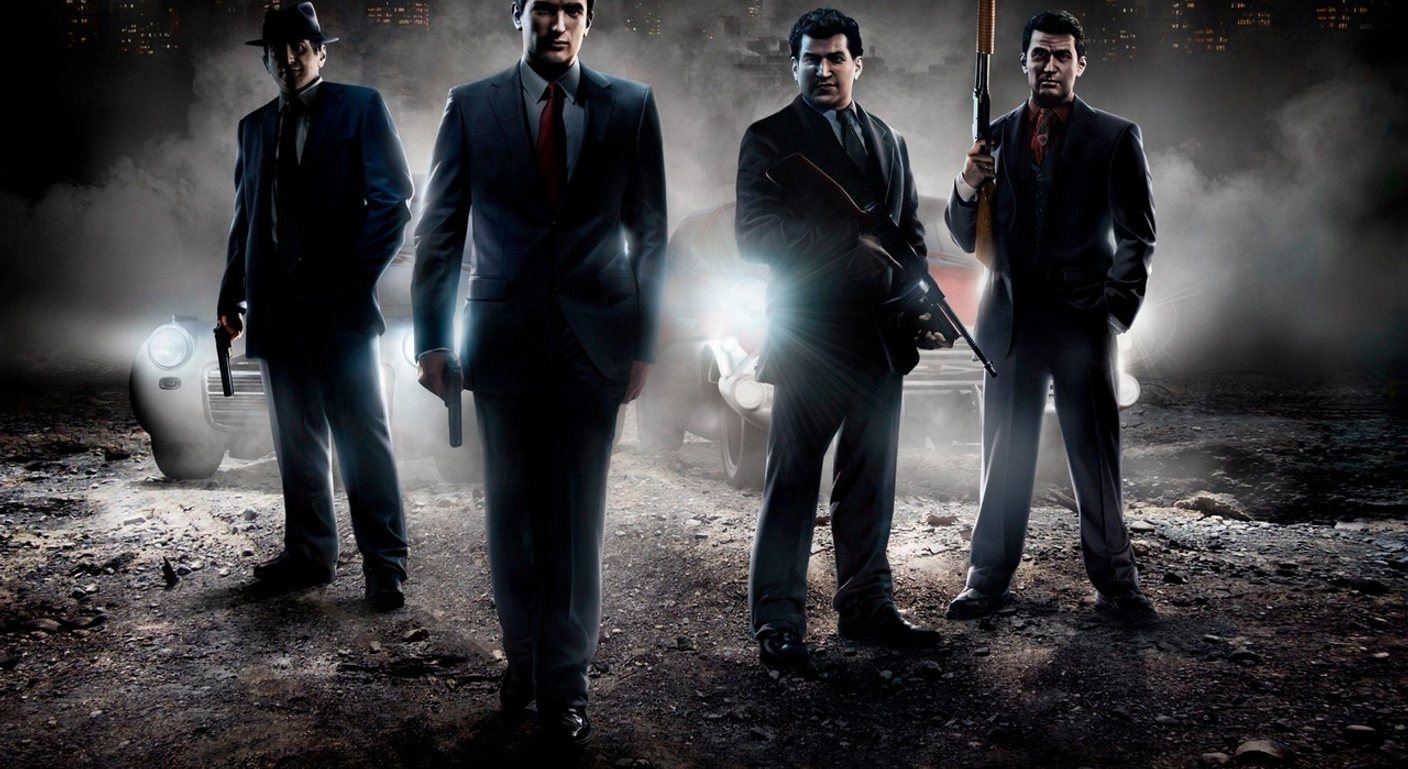
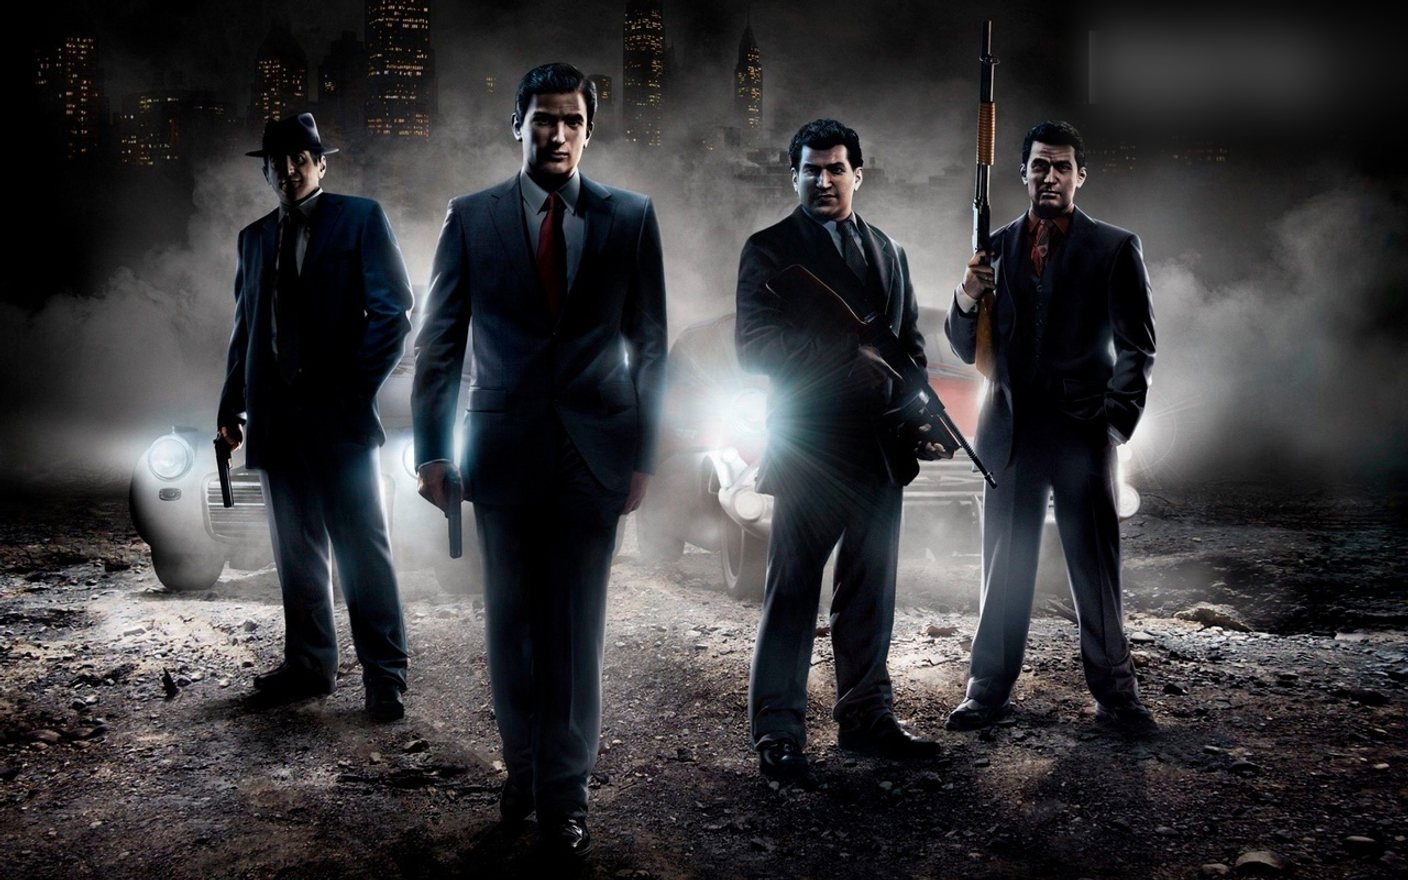
mafia2: ReMaf2 1.1.1 - game starts again on Adreno 8xx, start watchdog, art fix
- Revert 1.1.0's forced system Vulkan driver on Adreno 8xx and undo its
  migration: the port's own "Auto" probing is what starts the game there.
- Start watchdog: if the game dies before 25 s, the launcher says so next
  time and offers to send the log; intentional quits are not flagged.
- Game folder autodetect also on resume (after file access is granted).
- Key art kept full height and anchored to the top (heads were cut); its
  wordmark is dissolved into the sky (tools/make_art.py).

Claude-Session: https://claude.ai/code/session_015wqTj8YW9tFNLPGCwwK9qX

diff --git a/mafia2/java/com/mafia2re/game/GameConfig.java b/mafia2/java/com/mafia2re/game/GameConfig.java
@@ -80,7 +80,7 @@ final class GameConfig {
             "Снижает нагрузку в меню и на паузе.", "Lowers the load in menus and while paused.");
     static final Option DRIVER = new Option("vulkan_driver", "Драйвер Vulkan", "Vulkan driver",
             s("Авто", "Системный", "Turnip"), s("Auto", "System", "Turnip"), v(0, 1, 2), true,
-            "Если картинка в полосах или мусоре — выберите «Системный». Turnip работает только на Adreno 6xx/7xx.", "");
+            "«Авто» — порт сам проверяет Turnip и системный драйвер. Меняйте, только если игра не стартует или рисует мусор.", "");
     static final Option VOICE = new Option("game_voice", "Озвучка", "Voice",
             s("Русская", "Английская"), s("Russian", "English"), v(0, 1), true,
             "Английской нужна папка pc/sds_ru_en.", "English needs pc/sds_ru_en.");
@@ -188,13 +188,31 @@ final class GameConfig {
     void ensureDefaults(DeviceProfile dp) {
         if (prefs.getInt("graphics_mode", -1) < 0) {
             applyMode(dp.tier, dp.tier == DeviceProfile.TIER_LOW ? MODE_SPEED : MODE_BALANCE);
-            set(DRIVER, dp.adrenoModel() >= 800 ? 1 : 0);
+            set(DRIVER, 0);
         }
-        if (prefs.getInt("defaults_v", 1) < 2) {
-            // 1.0.0 left "Auto" on Adreno 8xx, where Turnip draws garbage.
-            if (dp.adrenoModel() >= 800 && get(DRIVER) == 0) set(DRIVER, 1);
-            prefs.edit().putInt("defaults_v", 2).apply();
-        }
+        // 1.1.0 forced the system driver on Adreno 8xx; the port's own choice ("Auto": it
+        // probes Turnip and the system driver itself) is what actually starts there. Undo it.
+        if (prefs.getInt("defaults_v", 1) == 2 && dp.adrenoModel() >= 800 && get(DRIVER) == 1) set(DRIVER, 0);
+        if (prefs.getInt("defaults_v", 1) < 3) prefs.edit().putInt("defaults_v", 3).apply();
+    }
+
+    // ------------------------------------------------------------------ start-up watchdog
+
+    /** Marks a game start; {@link #markGameAlive()} confirms it survived the first seconds. */
+    void markGameStart() {
+        prefs.edit().putLong("game_started_at", System.currentTimeMillis()).putBoolean("game_alive", false).commit();
+    }
+
+    void markGameAlive() {
+        prefs.edit().putBoolean("game_alive", true).commit();
+    }
+
+    /** True once if the last start ended before the game confirmed it was running. */
+    boolean takeFailedStart() {
+        long at = prefs.getLong("game_started_at", 0);
+        boolean failed = at > 0 && !prefs.getBoolean("game_alive", true);
+        prefs.edit().remove("game_started_at").putBoolean("game_alive", true).apply();
+        return failed;
     }
 
     void applyMode(int tier, int mode) {

diff --git a/mafia2/java/com/mafia2re/game/LauncherActivity.java b/mafia2/java/com/mafia2re/game/LauncherActivity.java
@@ -41,7 +41,7 @@ import java.util.Locale;
  * folder, the game starts".
  */
 public class LauncherActivity extends Activity {
-    static final String VERSION = "1.1.0";
+    static final String VERSION = "1.1.1";
     private static final int REQ_TREE = 41;
     private static final int TAB_PLAY = 0, TAB_SETTINGS = 1, TAB_CONTROLS = 2, TAB_FILES = 3, TAB_ABOUT = 4;
     private static final String[] TAB_NAMES = {"ИГРАТЬ", "НАСТРОЙКИ", "УПРАВЛЕНИЕ", "ФАЙЛЫ ИГРЫ", "О ПОРТЕ"};
@@ -98,8 +98,15 @@ public class LauncherActivity extends Activity {
             pickAfterAccess = false;
             openPicker();
         }
+        autodetectGame();   // access may have been granted meanwhile
         refreshChips();
         showTab(tab);
+        if (cfg.takeFailedStart()) {
+            dialog("Игра закрылась при запуске",
+                    "Похоже, игра не смогла стартовать. Отправьте лог (Telegram, почта) — по нему видно причину.\n\n"
+                            + "Можно попробовать другой драйвер Vulkan: сейчас — «" + GameConfig.DRIVER.name(GameConfig.DRIVER.indexOf(cfg.get(GameConfig.DRIVER))) + "».",
+                    "ОТПРАВИТЬ ЛОГ", this::shareLog);
+        }
     }
 
     @Override
@@ -671,7 +678,7 @@ public class LauncherActivity extends Activity {
                         + "• Стик как в шутерах: меньше, бег при толчке вперёд, фиксация бега замком.\n"
                         + "• Иконки кнопок с game-icons.net.\n"
                         + "• Всё приложение на русском.\n"
-                        + "• Adreno 8xx: по умолчанию системный драйвер Vulkan (Turnip давал полосы).\n"
+                        + "• Если игра закрылась при запуске — лаунчер предложит отправить лог.\n"
                         + "• Кнопка «Отправить лог» во вкладке «Файлы игры», Telegram в шапке.",
                 13, 0xFFD4D0CA, Ui.body(this));
         news.setLineSpacing(0, 1.25f);

diff --git a/mafia2/tests/robo/src/test/java/com/mafia2re/game/M2Test.java b/mafia2/tests/robo/src/test/java/com/mafia2re/game/M2Test.java
@@ -179,21 +179,33 @@ public class M2Test {
     }
 
     @Test
-    public void adreno8xxUsesSystemDriverAndMigrates() {
+    public void driverStaysAutoAndUndoes110Migration() {
         DeviceProfile a829 = DeviceProfile.forTest("SM8845", "Adreno (TM) 829", 12000, 4000, true);
         assertEquals(829, a829.adrenoModel());
         GameConfig cfg = new GameConfig(ctx);
         cfg.ensureDefaults(a829);
-        assertEquals(1, cfg.get(GameConfig.DRIVER));
-        // An install made by 1.0.0: mode set, driver left on Auto, no defaults_v.
-        ctx.getSharedPreferences(GameConfig.PREFS, 0).edit().clear().putInt("graphics_mode", 1).putInt("vulkan_driver", 0).commit();
+        assertEquals(0, cfg.get(GameConfig.DRIVER));
+        // An install migrated by 1.1.0 (defaults_v = 2, forced "system") goes back to Auto.
+        ctx.getSharedPreferences(GameConfig.PREFS, 0).edit().clear().putInt("graphics_mode", 1)
+                .putInt("vulkan_driver", 1).putInt("defaults_v", 2).commit();
         new GameConfig(ctx).ensureDefaults(a829);
-        assertEquals(1, new GameConfig(ctx).get(GameConfig.DRIVER));
-        // Adreno 6xx/7xx keep Auto (Turnip is fine there).
-        ctx.getSharedPreferences(GameConfig.PREFS, 0).edit().clear().commit();
-        GameConfig c2 = new GameConfig(ctx);
-        c2.ensureDefaults(DeviceProfile.forTest("SM7325", "Adreno (TM) 642L", 8000, 2400, true));
-        assertEquals(0, c2.get(GameConfig.DRIVER));
+        assertEquals(0, new GameConfig(ctx).get(GameConfig.DRIVER));
+        // A choice made after that is kept.
+        GameConfig c3 = new GameConfig(ctx);
+        c3.set(GameConfig.DRIVER, 1);
+        c3.ensureDefaults(a829);
+        assertEquals(1, c3.get(GameConfig.DRIVER));
+    }
+
+    @Test
+    public void failedStartIsReportedOnce() {
+        GameConfig cfg = new GameConfig(ctx);
+        cfg.markGameStart();
+        assertTrue(new GameConfig(ctx).takeFailedStart());
+        assertFalse(new GameConfig(ctx).takeFailedStart());
+        cfg.markGameStart();
+        cfg.markGameAlive();
+        assertFalse(new GameConfig(ctx).takeFailedStart());
     }
 
     @Test

diff --git a/mafia2/tools/make_art.py b/mafia2/tools/make_art.py
@@ -1,0 +1,36 @@
+#!/usr/bin/env python3
+"""Launcher backgrounds from the Mafia II art the ReMaf2 author supplied.
+
+    make_art.py <keyart.jpg> <police.jpg> <snow.jpg> <out_dir>
+
+The key art keeps its full height (the launcher anchors it to the top, so heads are never
+cut); its "MAFIA II" wordmark in the top-right corner is dissolved into the
+night (blurred and darkened), so it does not fight with the ReMaf2 logo.
+"""
+import sys
+
+from PIL import Image, ImageFilter
+
+
+def main():
+    key, police, snow, out = sys.argv[1:5]
+    k = Image.open(key).convert("RGB")
+    w, h = k.size
+    # Wordmark box (1408x880 art): x 1072..1400, y 30..~112. No clean stretch of sky of that
+    # size exists in the picture (heads, hats, gun barrels), so the corner is dissolved into
+    # the night instead: heavy blur, no colour, darkened, with soft edges.
+    x0, y1 = int(w * 0.74), int(h * 0.21)
+    region = k.crop((x0, 0, w, y1))
+    fog = region.filter(ImageFilter.GaussianBlur(w * 0.02)).convert("L").point(lambda v: int(v * 0.45)).convert("RGB")
+    mask = Image.new("L", region.size, 0)
+    mx, my = int(w * 0.02), int(h * 0.03)
+    mask.paste(Image.new("L", (region.size[0] - mx, region.size[1] - my), 255), (mx, 0))
+    mask = mask.filter(ImageFilter.GaussianBlur(mx / 2))
+    k.paste(fog, (x0, 0), mask)
+    k.save(out + "/keyart.jpg", quality=84, optimize=True, progressive=True)
+    for s, n in ((police, "street_police.jpg"), (snow, "street_snow.jpg")):
+        Image.open(s).convert("RGB").save(out + "/" + n, quality=82, optimize=True, progressive=True)
+
+
+if __name__ == "__main__":
+    main()

diff --git a/mafia2/java/com/mafia2re/game/M2GameActivity.java b/mafia2/java/com/mafia2re/game/M2GameActivity.java
@@ -30,6 +30,9 @@ public class M2GameActivity extends GameActivity implements ControlsOverlay.List
     protected void onCreate(Bundle b) {
         super.onCreate(b);
         cfg = new GameConfig(this);
+        cfg.markGameStart();
+        // Still alive after 25 s: the game started fine (rendering, data, driver).
+        new android.os.Handler(android.os.Looper.getMainLooper()).postDelayed(cfg::markGameAlive, 25_000);
         ViewGroup content = findViewById(android.R.id.content);
         int at = -1;
         if (content != null) {
@@ -215,6 +218,7 @@ public class M2GameActivity extends GameActivity implements ControlsOverlay.List
 
     /** The native game cannot be restarted in-process: schedule the launcher, then end the process. */
     private void quitToLauncher() {
+        cfg.markGameAlive();   // the player left on purpose: not a failed start
         Intent i = new Intent(this, LauncherActivity.class).addFlags(Intent.FLAG_ACTIVITY_NEW_TASK | Intent.FLAG_ACTIVITY_CLEAR_TASK);
         PendingIntent pi = PendingIntent.getActivity(this, 7, i, PendingIntent.FLAG_CANCEL_CURRENT | PendingIntent.FLAG_IMMUTABLE);
         AlarmManager am = (AlarmManager) getSystemService(Context.ALARM_SERVICE);

diff --git a/mafia2/java/com/mafia2re/game/DeviceProfile.java b/mafia2/java/com/mafia2re/game/DeviceProfile.java
@@ -75,13 +75,7 @@ final class DeviceProfile {
         return isAdreno() ? Math.max(0, num(gpu.toLowerCase(Locale.ROOT), "adreno[^0-9]*([0-9]{3})")) : 0;
     }
 
-    /**
-     * Turnip (Mesa) support for Adreno 8xx is young: on these GPUs the frames come out as
-     * striped garbage, so the system Vulkan driver is the safe default there.
-     */
-    boolean preferSystemDriver() {
-        return !isAdreno() || adrenoModel() >= 800;
-    }
+
 
     private static int num(String s, String regex) {
         Matcher m = Pattern.compile(regex, Pattern.CASE_INSENSITIVE).matcher(s);

diff --git a/mafia2/java/com/mafia2re/game/ArtBackdrop.java b/mafia2/java/com/mafia2re/game/ArtBackdrop.java
@@ -90,7 +90,7 @@ final class ArtBackdrop extends View {
         float k = Math.max(w / (float) b.getWidth(), h / (float) b.getHeight());
         float dw = b.getWidth() * k;
         m.setScale(k, k);
-        m.postTranslate(w - dw, (h - b.getHeight() * k) * 0.35f);   // anchored right, slightly to the top
+        m.postTranslate(w - dw, 0);   // anchored right and to the top: faces stay in frame, feet may crop
         img.setAlpha(alpha);
         c.drawBitmap(b, m, img);
     }

diff --git a/mafia2/build_m2.py b/mafia2/build_m2.py
@@ -19,8 +19,8 @@ import sys
 import tempfile
 import zipfile
 
-VERSION_NAME = "1.1.0"
-VERSION_CODE = 2
+VERSION_NAME = "1.1.1"
+VERSION_CODE = 3
 
 HERE = os.path.dirname(os.path.abspath(__file__))
 SDK = os.environ.get("ANDROID_HOME", "/opt/android-sdk")
